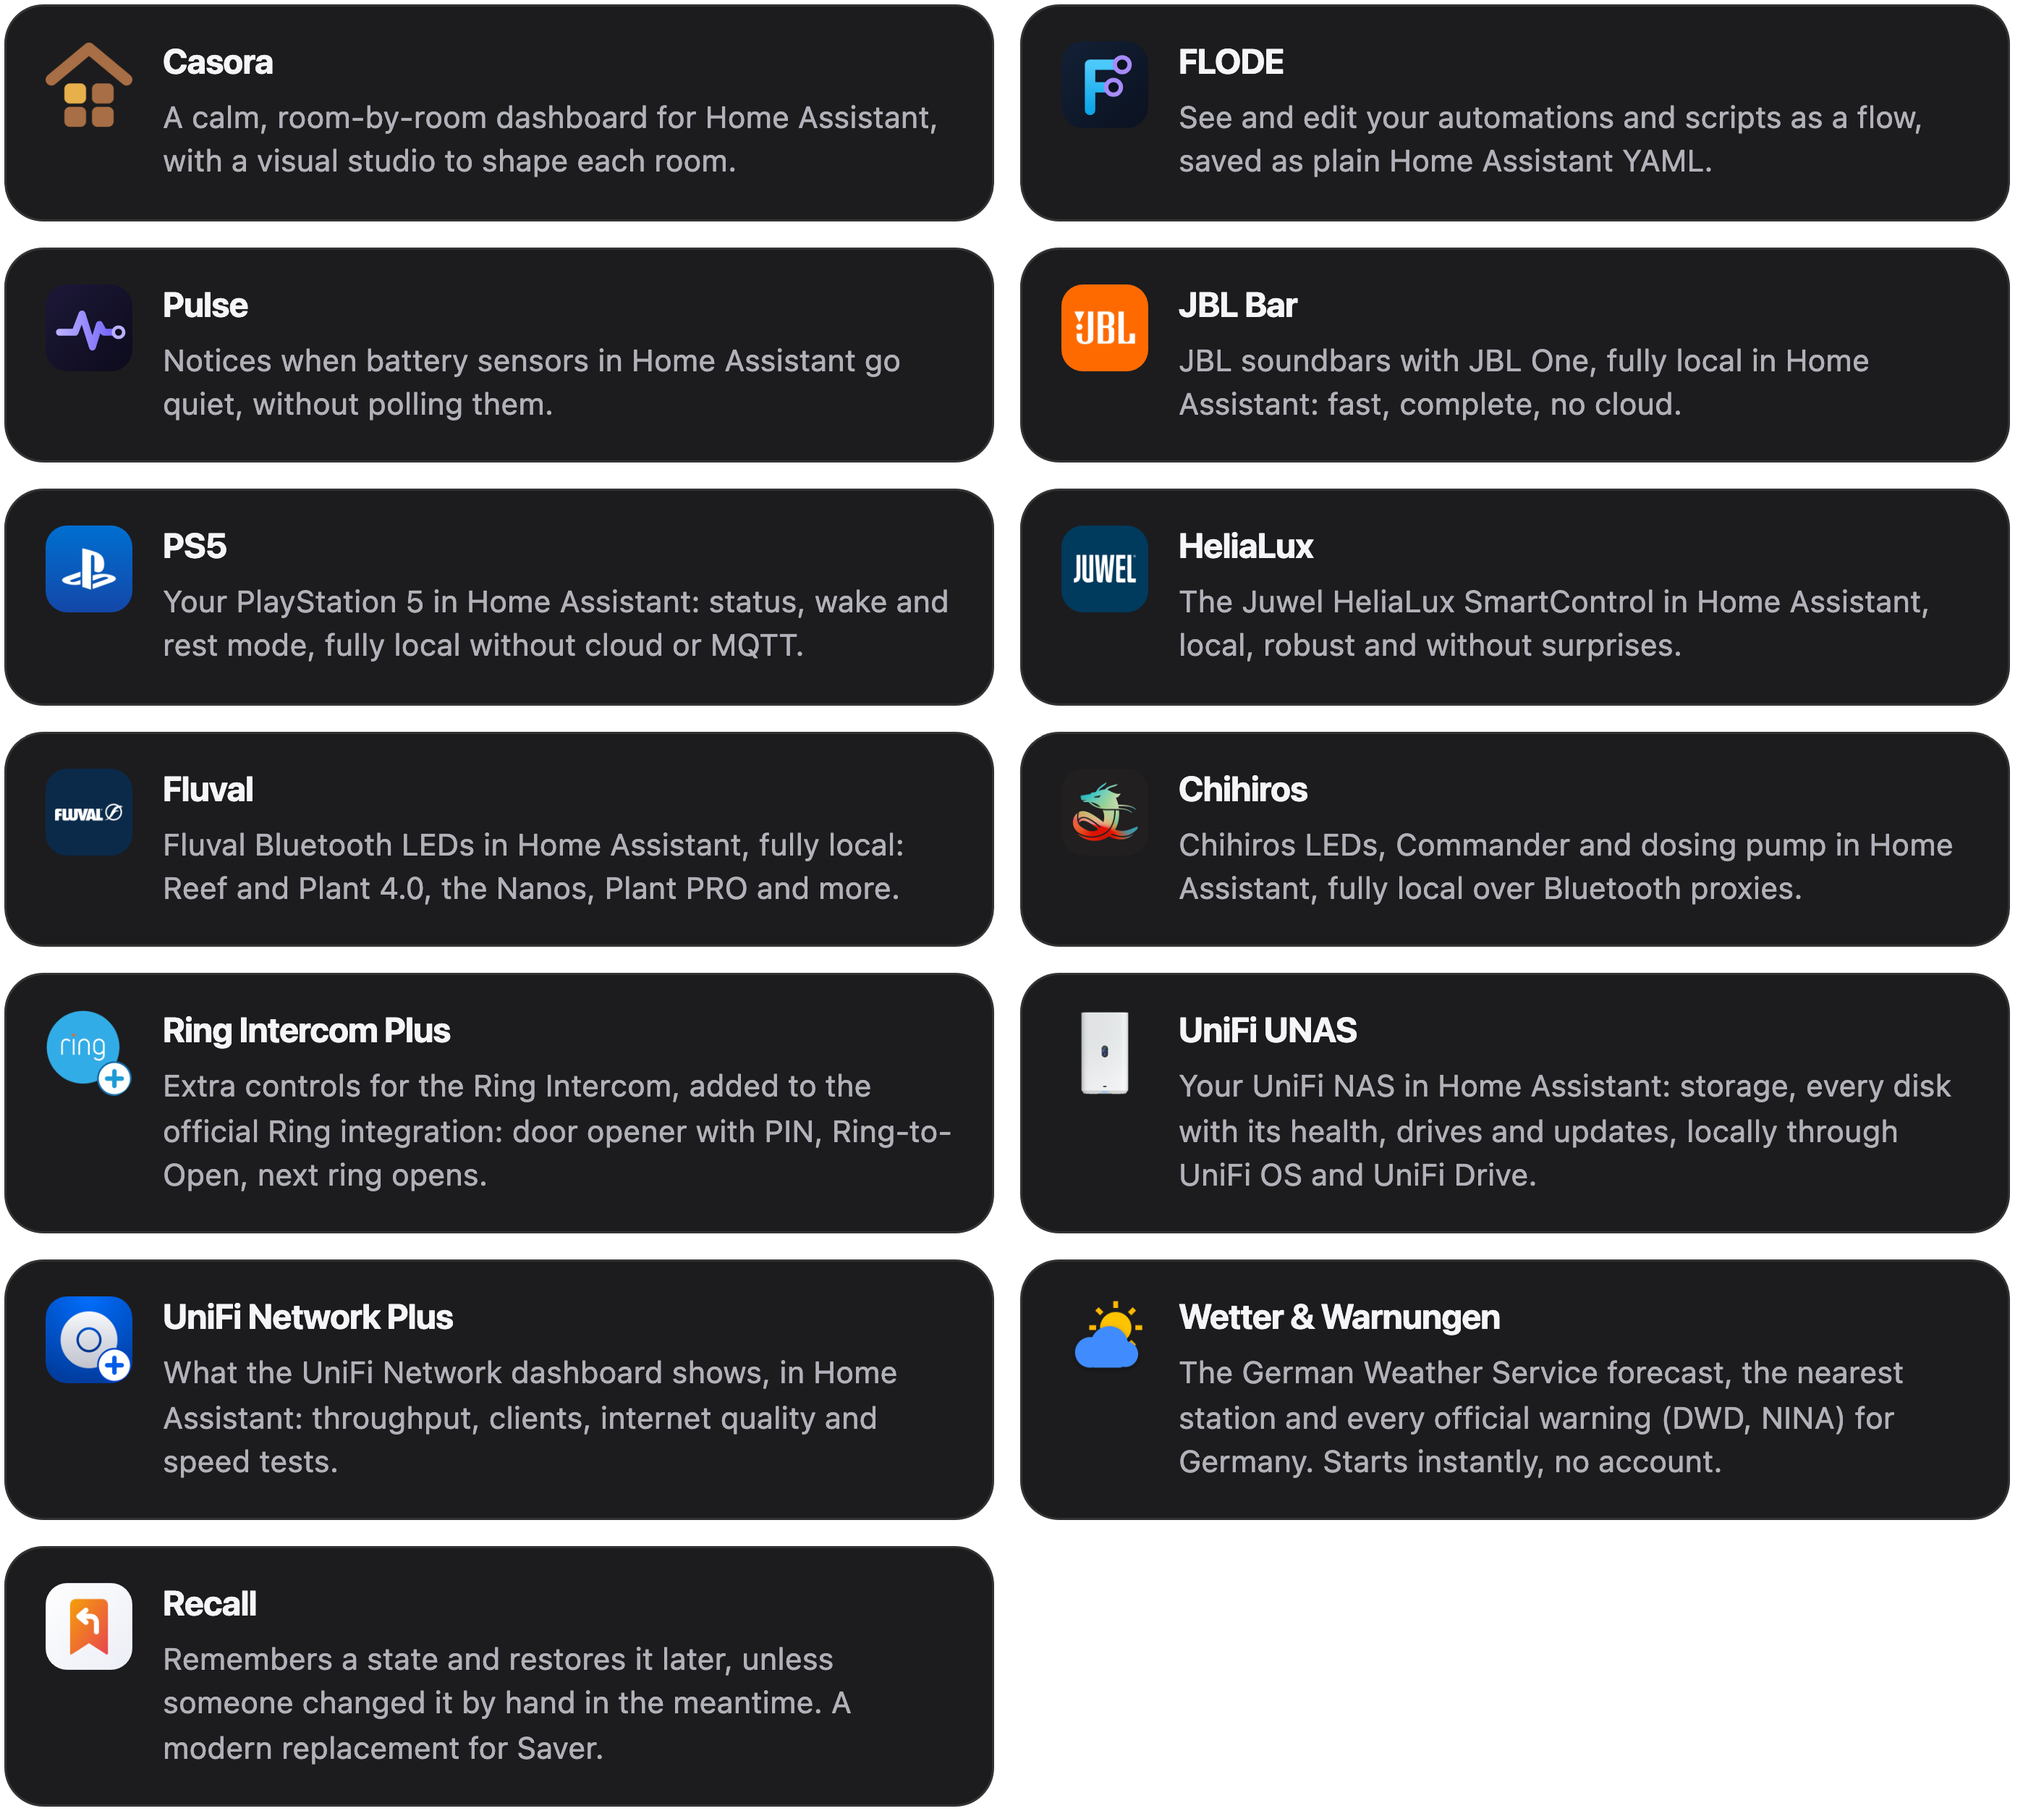
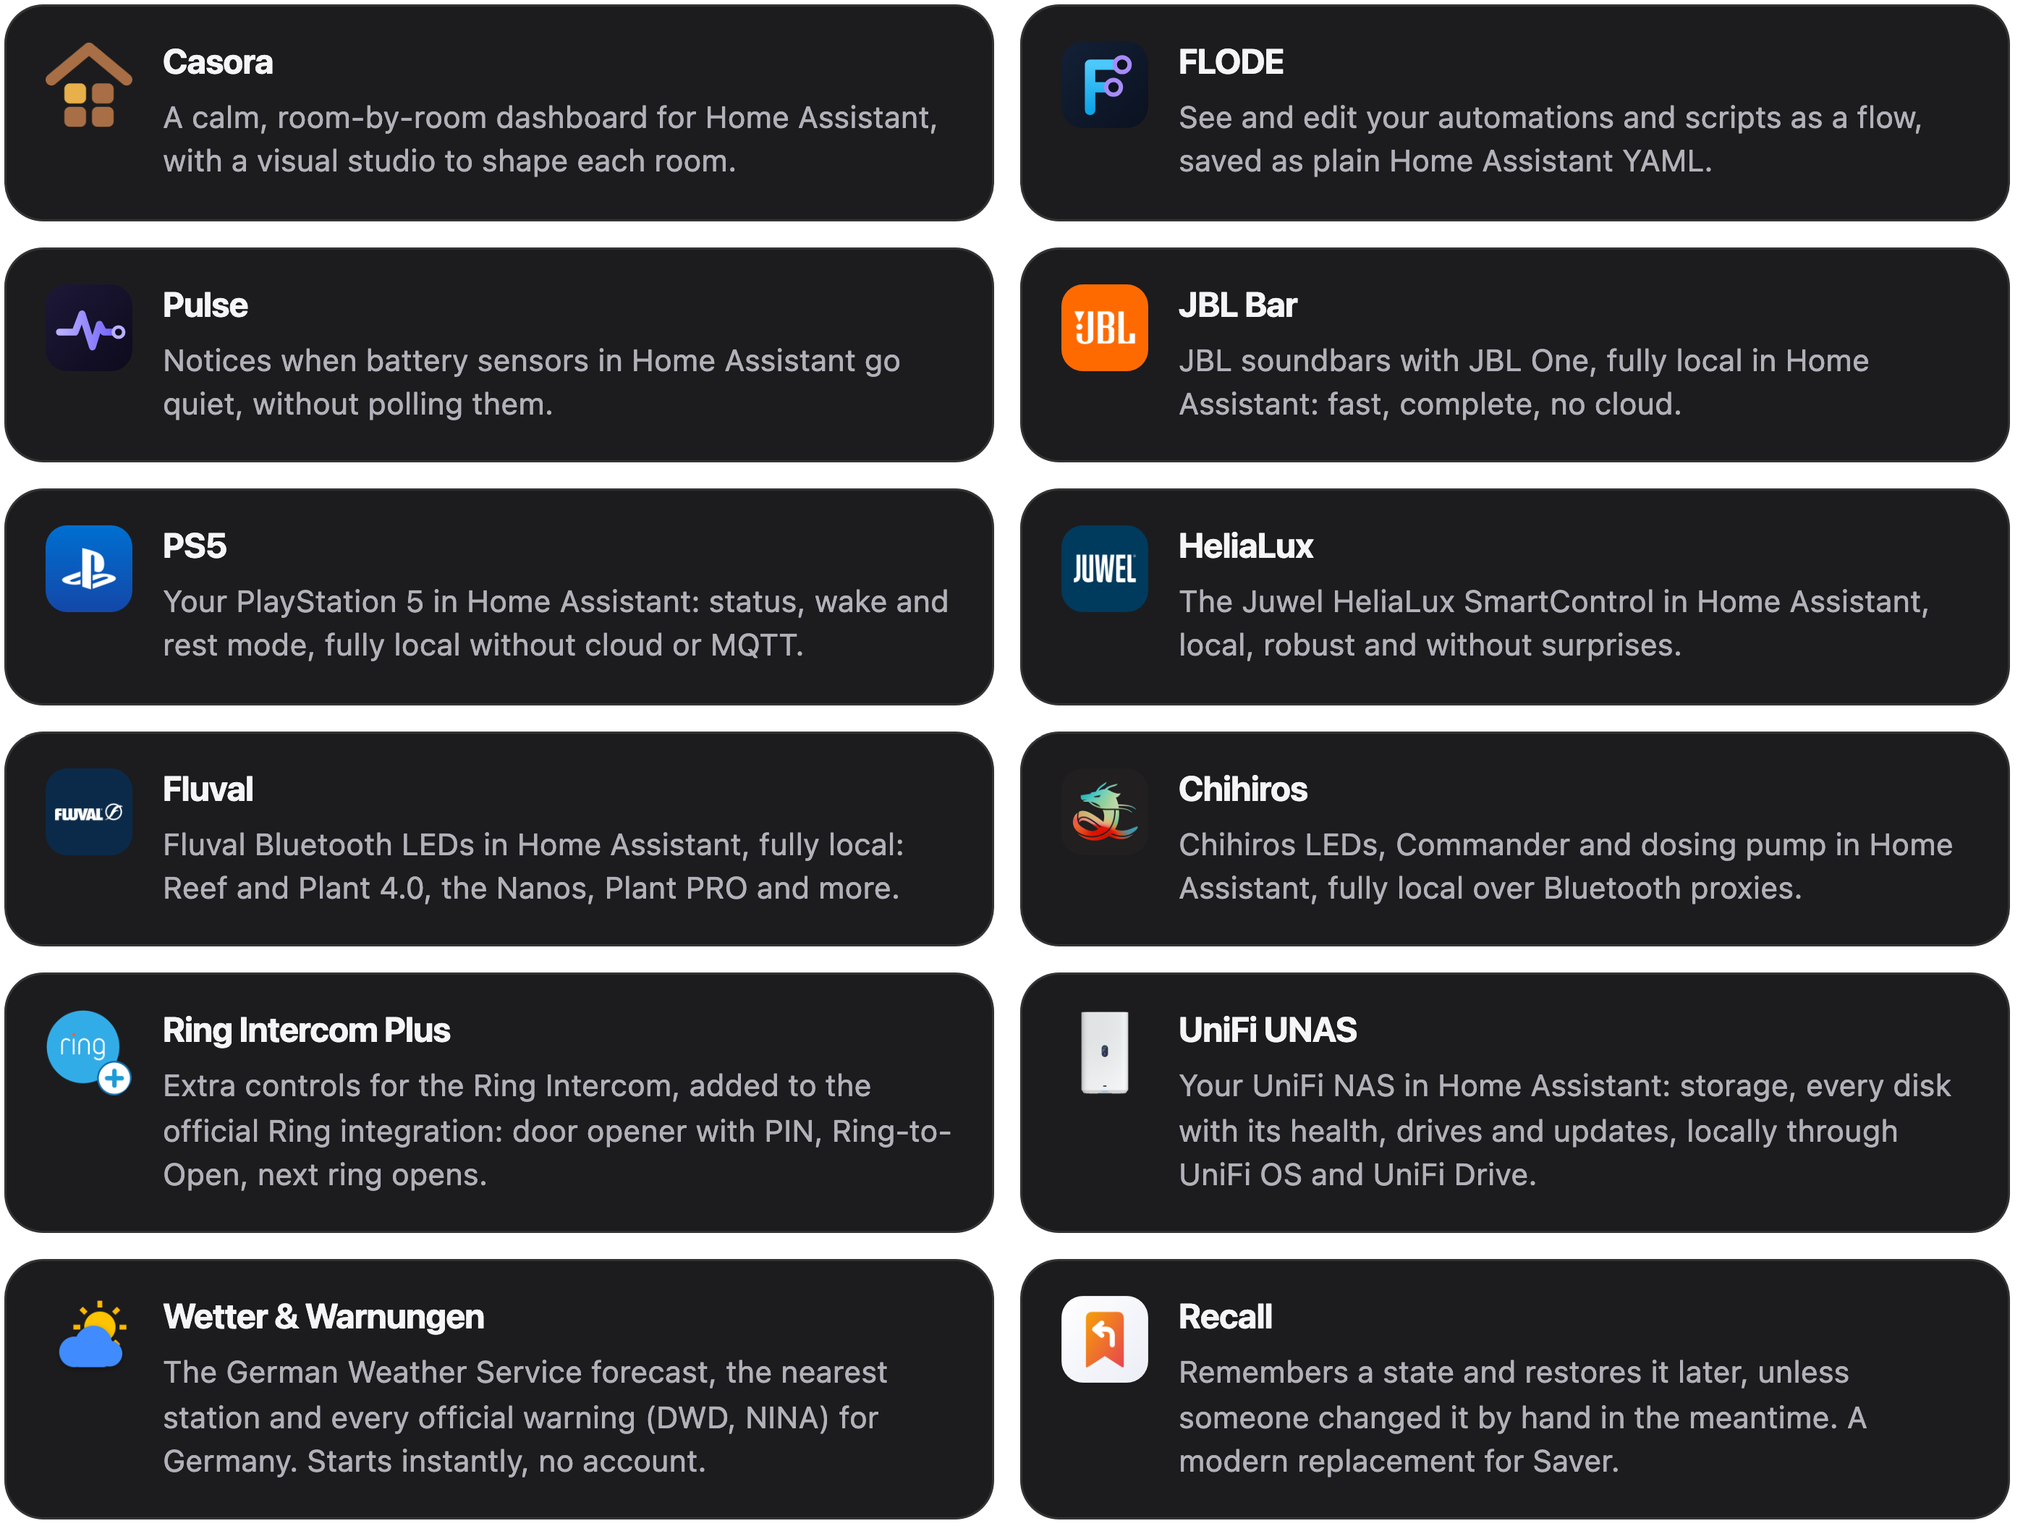
Remove UniFi Network Plus
Replaced by UniFi Dream Router 7 (private for now); the repository is deleted.

Claude-Session: https://claude.ai/code/session_01DUbPFAWZHBR1NVLRndQr65

diff --git a/README.md b/README.md
@@ -16,14 +16,14 @@ Everything here started as something I needed at home. It runs locally: no cloud
 
 <a id="home-assistant"></a>
 <sub><b>HOME ASSISTANT</b></sub>
-## Thirteen integrations you can install today.
+## Twelve integrations you can install today.
 
 <picture>
   <source media="(prefers-color-scheme: dark)" srcset="docs/images/readme-cards-ha-dark.png" />
   <img src="docs/images/readme-cards-ha-light.png" alt="Casora: a calm, room-by-room dashboard for Home Assistant, with a visual studio to shape each room. FLODE: see and edit your automations and scripts as a flow, saved as plain Home Assistant YAML. Pulse: notices when battery sensors in Home Assistant go quiet, without polling them. JBL Bar: JBL soundbars with JBL One, fully local in Home Assistant: fast, complete, no cloud. PS5: your PlayStation 5 in Home Assistant, status, wake and rest mode, fully local. HeliaLux: the Juwel HeliaLux SmartControl in Home Assistant, local. Fluval: Fluval Bluetooth LEDs in Home Assistant, fully local. Chihiros: Chihiros LEDs, Commander and dosing pump over Bluetooth proxies. Ring Intercom Plus: extra controls for the Ring Intercom. UniFi UNAS: your UniFi NAS in Home Assistant, storage, every disk with its health, drives and updates, locally. Wetter &amp; Warnungen: the German Weather Service forecast and every official warning for Germany. Recall: remembers a state and restores it later, unless someone changed it by hand, a modern replacement for Saver." />
 </picture>
 
-<p align="center"><a href="https://github.com/SH1FT-W/casora"><b>Casora</b></a> &nbsp;·&nbsp; <a href="https://github.com/SH1FT-W/flode"><b>FLODE</b></a> &nbsp;·&nbsp; <a href="https://github.com/SH1FT-W/pulse"><b>Pulse</b></a> &nbsp;·&nbsp; <a href="https://github.com/SH1FT-W/jbl-bar"><b>JBL&nbsp;Bar</b></a> &nbsp;·&nbsp; <a href="https://github.com/SH1FT-W/playstation-5"><b>PS5</b></a> &nbsp;·&nbsp; <a href="https://github.com/SH1FT-W/helialux"><b>HeliaLux</b></a> &nbsp;·&nbsp; <a href="https://github.com/SH1FT-W/fluval"><b>Fluval</b></a> &nbsp;·&nbsp; <a href="https://github.com/SH1FT-W/chihiros"><b>Chihiros</b></a> &nbsp;·&nbsp; <a href="https://github.com/SH1FT-W/ring-intercom-plus"><b>Ring&nbsp;Intercom&nbsp;Plus</b></a> &nbsp;·&nbsp; <a href="https://github.com/SH1FT-W/unifi-unas"><b>UniFi&nbsp;UNAS</b></a> &nbsp;·&nbsp; <a href="https://github.com/SH1FT-W/unifi-network-plus"><b>UniFi&nbsp;Network&nbsp;Plus</b></a> &nbsp;·&nbsp; <a href="https://github.com/SH1FT-W/wetter-warnungen"><b>Wetter&nbsp;&amp;&nbsp;Warnungen</b></a> &nbsp;·&nbsp; <a href="https://github.com/SH1FT-W/recall"><b>Recall</b></a></p>
+<p align="center"><a href="https://github.com/SH1FT-W/casora"><b>Casora</b></a> &nbsp;·&nbsp; <a href="https://github.com/SH1FT-W/flode"><b>FLODE</b></a> &nbsp;·&nbsp; <a href="https://github.com/SH1FT-W/pulse"><b>Pulse</b></a> &nbsp;·&nbsp; <a href="https://github.com/SH1FT-W/jbl-bar"><b>JBL&nbsp;Bar</b></a> &nbsp;·&nbsp; <a href="https://github.com/SH1FT-W/playstation-5"><b>PS5</b></a> &nbsp;·&nbsp; <a href="https://github.com/SH1FT-W/helialux"><b>HeliaLux</b></a> &nbsp;·&nbsp; <a href="https://github.com/SH1FT-W/fluval"><b>Fluval</b></a> &nbsp;·&nbsp; <a href="https://github.com/SH1FT-W/chihiros"><b>Chihiros</b></a> &nbsp;·&nbsp; <a href="https://github.com/SH1FT-W/ring-intercom-plus"><b>Ring&nbsp;Intercom&nbsp;Plus</b></a> &nbsp;·&nbsp; <a href="https://github.com/SH1FT-W/unifi-unas"><b>UniFi&nbsp;UNAS</b></a> &nbsp;·&nbsp; <a href="https://github.com/SH1FT-W/wetter-warnungen"><b>Wetter&nbsp;&amp;&nbsp;Warnungen</b></a> &nbsp;·&nbsp; <a href="https://github.com/SH1FT-W/recall"><b>Recall</b></a></p>
 
 <br/>
 
